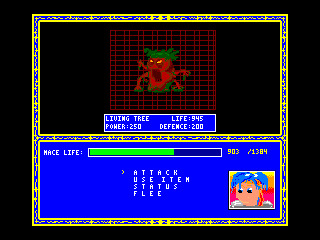
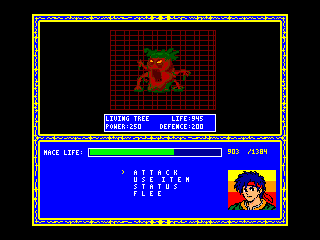
Avalon MSX screenshots: show the redrawn Mace portrait
The redrawn HUD portrait is the only change in the panel: one 48x40
block at (228,170) of openMSX's raw 320x240 screenshot. import-assets
now swaps it into the recorded screenshots wherever the old portrait is
still there pixel for pixel, using the block from an openMSX capture of
the published ROM on the same machine (Philips NMS 8250).

Changed region(s): [[0.6875, 0.7, 0.875, 0.875]]

diff --git a/scripts/import_game_assets.py b/scripts/import_game_assets.py
@@ -395,8 +395,19 @@ def import_msx(with_video=True):
     msx_out.mkdir(parents=True, exist_ok=True)
     shutil.copyfile(rom, msx_out / "avalon-msx.rom")
 
+    # The recordings predate the redrawn Mace portrait in the HUD; it is the only difference in
+    # the panel (one 48x40 block at 228,170 in openMSX's 320x240 raw screenshot), so it is swapped
+    # in wherever the old portrait is still there pixel for pixel. art/msx-mace-portrait-new.png
+    # is that block from an openMSX capture of the current ROM on the same machine. Screenshots
+    # recorded later already carry the new portrait and are left alone.
+    old_portrait = Image.open(SITE / "art/msx-mace-portrait-old.png").convert("RGB")
+    new_portrait = Image.open(SITE / "art/msx-mace-portrait-new.png").convert("RGB")
+    portrait_box = (228, 170, 276, 210)
     for shot_id, name, _ in MSX_SCREENSHOTS:
-        shutil.copyfile(rec / name, dest(f"msx/shots/{shot_id}.png"))
+        shot = Image.open(rec / name).convert("RGB")
+        if list(shot.crop(portrait_box).getdata()) == list(old_portrait.getdata()):
+            shot.paste(new_portrait, portrait_box[:2])
+        shot.save(dest(f"msx/shots/{shot_id}.png"), optimize=True)
     title = Image.open(SITE / "art/msx-title.png").convert("RGB")
     title.save(dest("msx/title.png"), optimize=True)
 
